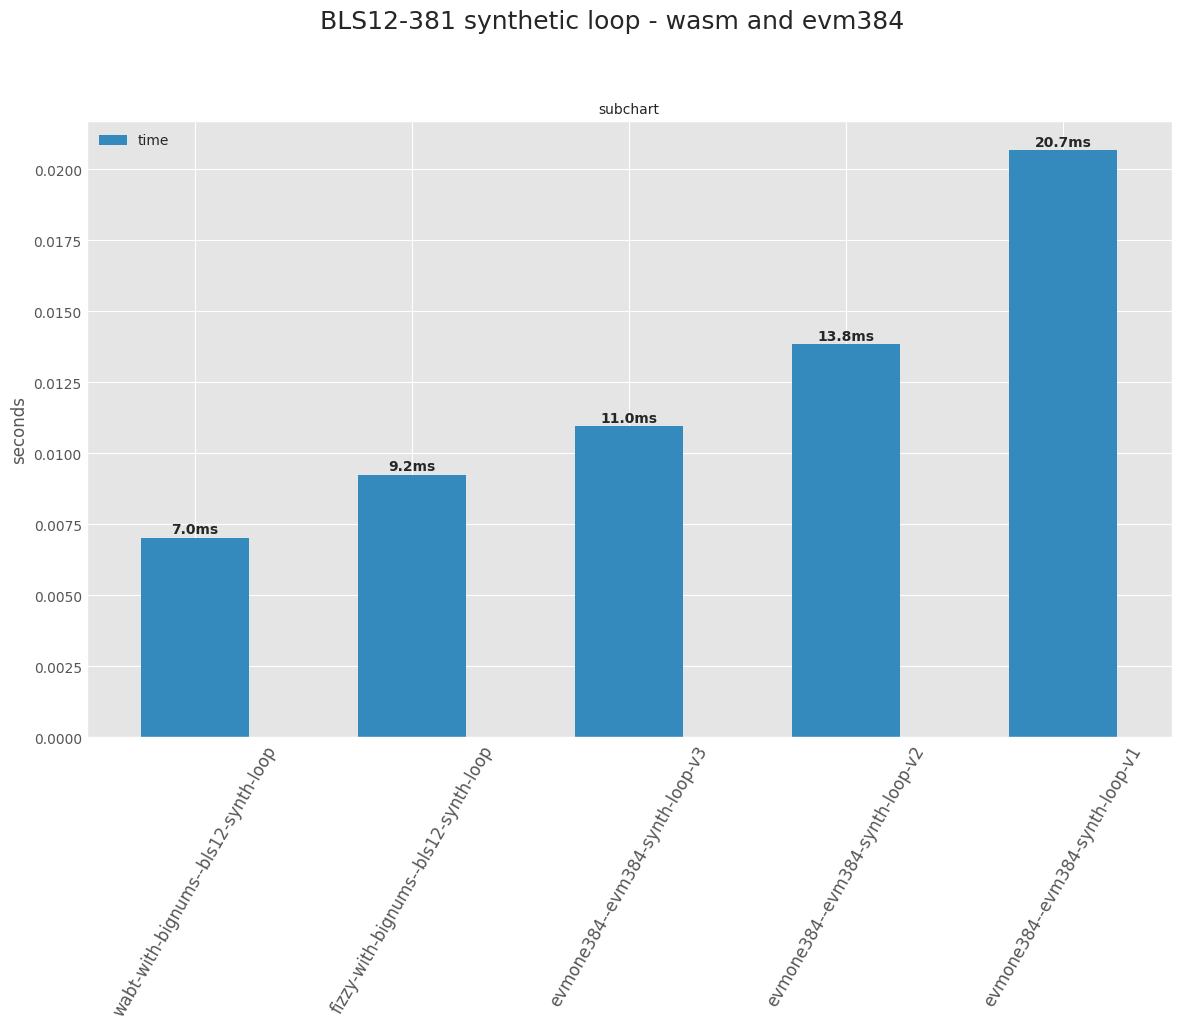
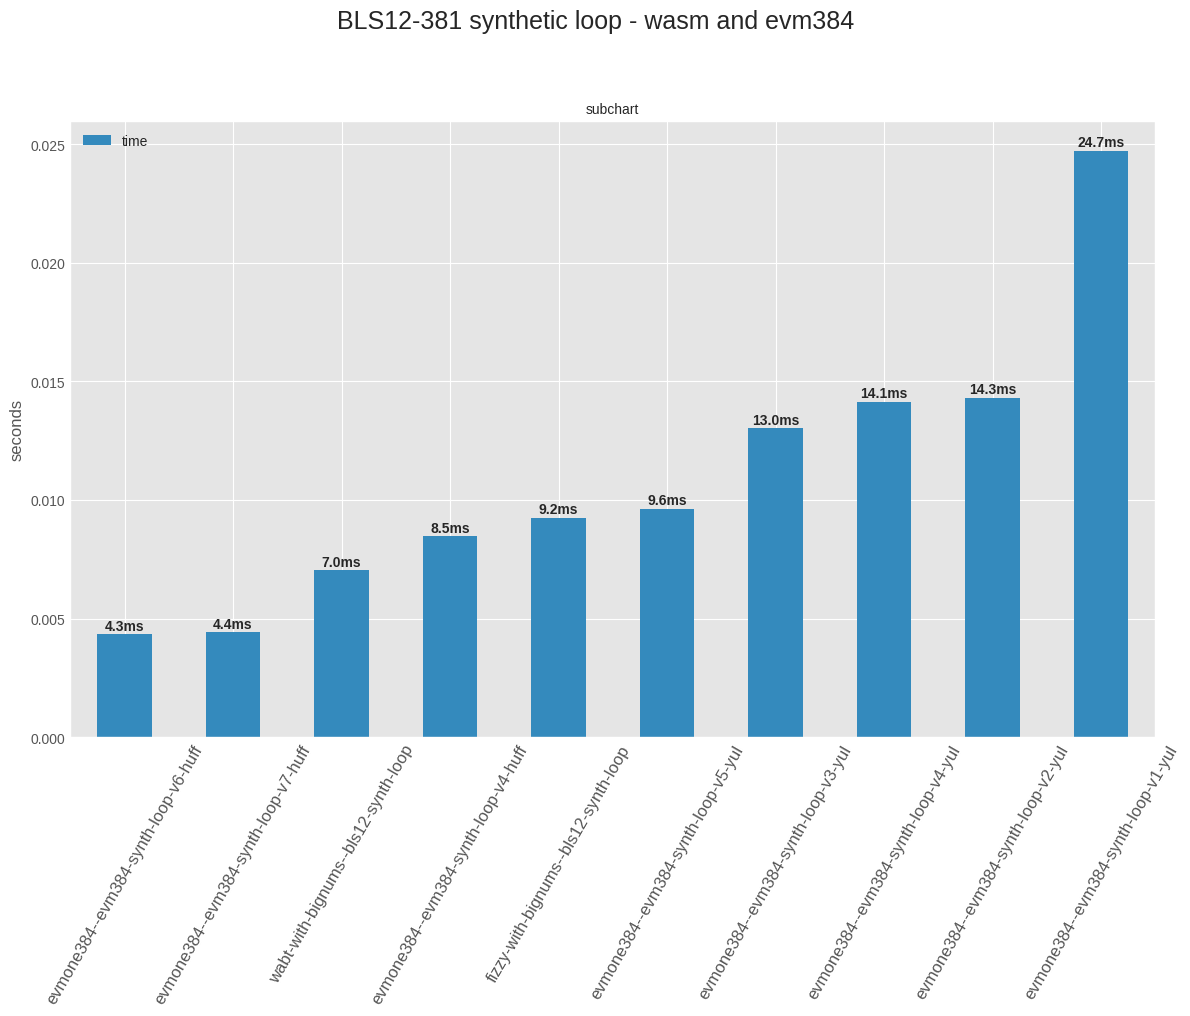
add more evm384 benchmarks

diff --git a/evm/scripts/bench_evm384.py b/evm/scripts/bench_evm384.py
@@ -18,16 +18,36 @@ RESULT_CSV_FILENAME = "evm_benchmarks_evmone384.csv"
 
 EVMONE_BENCH_INFOS = [
   {
-    "command": "/root/evmone-evm384-v1/build/bin/evmone-bench --benchmark_format=json --benchmark_color=false --benchmark_min_time=5 /root/evm384_f6m_mul/build/v1-f6m_mul_bench.bin 00 74229fc665e6c3f4401905c1a454ea57c8931739d05a074fd60400f19684d680a9e1305c25f13613dcc6cdd6e6e57d0800000000000000000000000000000000",
+    "command": "/root/evmone-evm384-v1/build/bin/evmone-bench --benchmark_format=json --benchmark_color=false --benchmark_min_time=5 /root/evm384_f6m_mul/build/v1-f6m_mul_bench.hex 00 74229fc665e6c3f4401905c1a454ea57c8931739d05a074fd60400f19684d680a9e1305c25f13613dcc6cdd6e6e57d0800000000000000000000000000000000",
     "bench_name": "evm384-synth-loop-v1"
   },
   {
-    "command": "/root/evmone-evm384-v2/build/bin/evmone-bench --benchmark_format=json --benchmark_color=false --benchmark_min_time=5 /root/evm384_f6m_mul/build/v2-f6m_mul_bench.bin 00 74229fc665e6c3f4401905c1a454ea57c8931739d05a074fd60400f19684d680a9e1305c25f13613dcc6cdd6e6e57d0800000000000000000000000000000000",
+    "command": "/root/evmone-evm384-v2/build/bin/evmone-bench --benchmark_format=json --benchmark_color=false --benchmark_min_time=5 /root/evm384_f6m_mul/build/v2-f6m_mul_bench.hex 00 74229fc665e6c3f4401905c1a454ea57c8931739d05a074fd60400f19684d680a9e1305c25f13613dcc6cdd6e6e57d0800000000000000000000000000000000",
     "bench_name": "evm384-synth-loop-v2"
   },
   {
-    "command": "/root/evmone-evm384-v2-unsafe/build/bin/evmone-bench --benchmark_format=json --benchmark_color=false --benchmark_min_time=5 /root/mem-check-disable-evm384_f6m_mul/build/v2-f6m_mul_bench.bin 00 74229fc665e6c3f4401905c1a454ea57c8931739d05a074fd60400f19684d680a9e1305c25f13613dcc6cdd6e6e57d0800000000000000000000000000000000",
+    "command": "/root/evmone-evm384-v3/build/bin/evmone-bench --benchmark_format=json --benchmark_color=false --benchmark_min_time=5 /root/evm384_f6m_mul/build/v3-f6m_mul_bench.hex 00 74229fc665e6c3f4401905c1a454ea57c8931739d05a074fd60400f19684d680a9e1305c25f13613dcc6cdd6e6e57d0800000000000000000000000000000000",
     "bench_name": "evm384-synth-loop-v3"
+  },
+  {
+    "command": "/root/evmone-evm384-v4/build/bin/evmone-bench --benchmark_format=json --benchmark_color=false --benchmark_min_time=5 /root/evm384_f6m_mul/build/v4-f6m_mul_bench.hex 00 74229fc665e6c3f4401905c1a454ea57c8931739d05a074fd60400f19684d680a9e1305c25f13613dcc6cdd6e6e57d0800000000000000000000000000000000",
+    "bench_name": "evm384-synth-loop-v4"
+  },
+  {
+    "command": "/root/evmone-evm384-v5/build/bin/evmone-bench --benchmark_format=json --benchmark_color=false --benchmark_min_time=5 /root/evm384_f6m_mul/build/v5-f6m_mul_bench.hex 00 3eb4cfbedd75a21a29701b4f4672232c52318353acdeef6d435d19a2681e023d153b8d400893da3b1525258aa820610e00000000000000000000000000000000",
+    "bench_name": "evm384-synth-loop-v5"
+  },
+  {
+    "command": "/root/evmone-evm384-v6/build/bin/evmone-bench --benchmark_format=json --benchmark_color=false --benchmark_min_time=5 /root/evm384_f6m_mul/build/v6-f6m_mul_bench.hex 00 ff",
+    "bench_name": "evm384-synth-loop-v6"
+  },
+  {
+    "command": "/root/evmone-evm384-v4/build/bin/evmone-bench --benchmark_format=json --benchmark_color=false --benchmark_min_time=5 /root/evm384_f6m_mul/build/v4-huff-f6m_mul_bench.hex 00 ff",
+    "bench_name": "evm384-synth-loop-v4-huff"
+  },
+  {
+    "command": "/root/evmone-evm384-v7/build/bin/evmone-bench --benchmark_format=json --benchmark_color=false --benchmark_min_time=5 /root/evm384_f6m_mul/build/v7-f6m_mul_bench.hex \"\" \"\"",
+    "bench_name": "evm384-synth-loop-v7-huff"
   }
 ]
 
